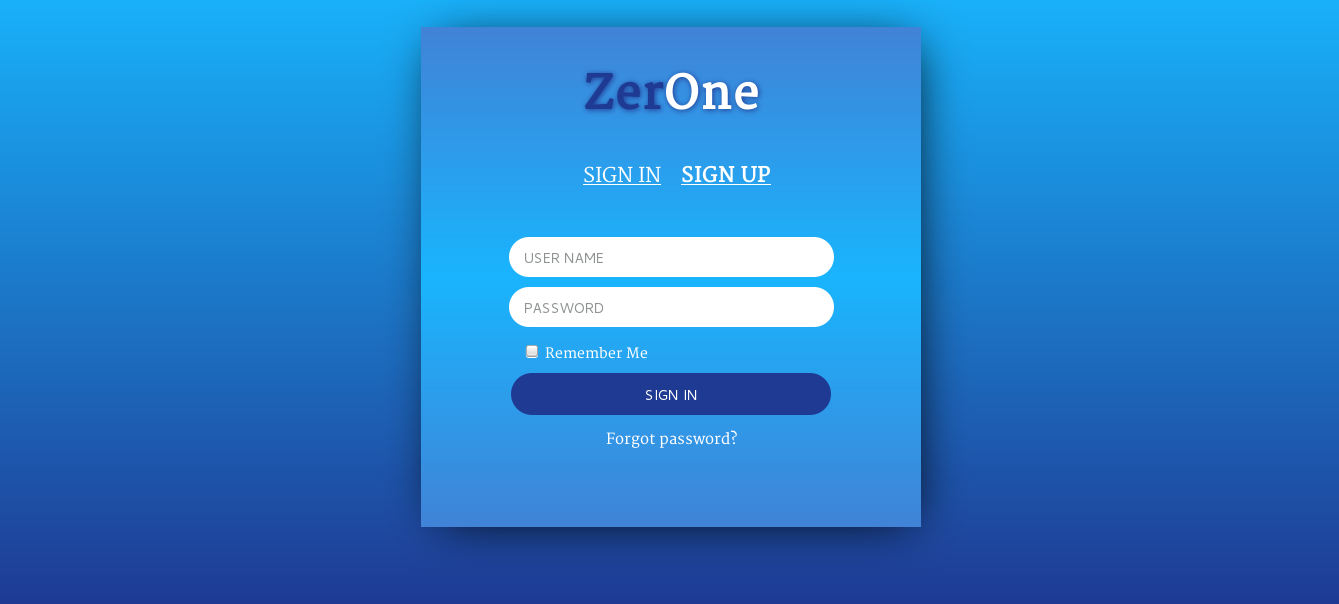
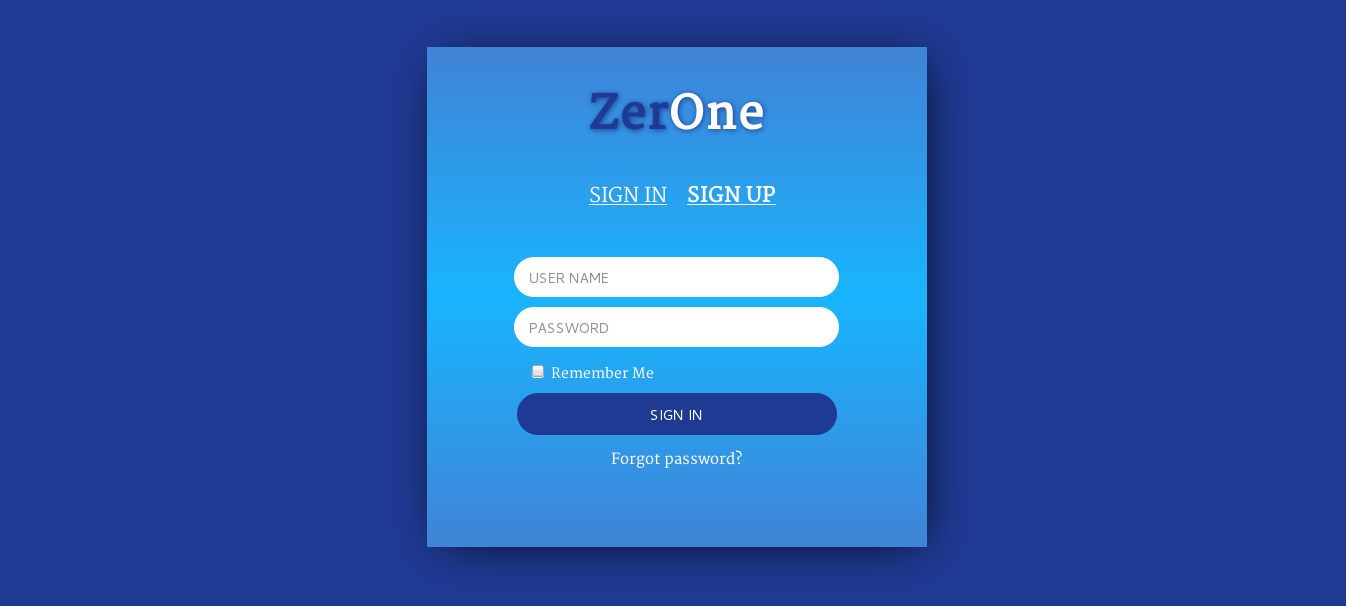
new signinn is added

diff --git a/webpage/page5/signinn/style.css b/webpage/page5/signinn/style.css
@@ -7,7 +7,7 @@
 }
 
 body {
-    background: linear-gradient(-180deg, #19B5FE, #1F3A93 );
+    background-color: #1F3A93 ;
     font-family: 'Merriweather';
 }
 
